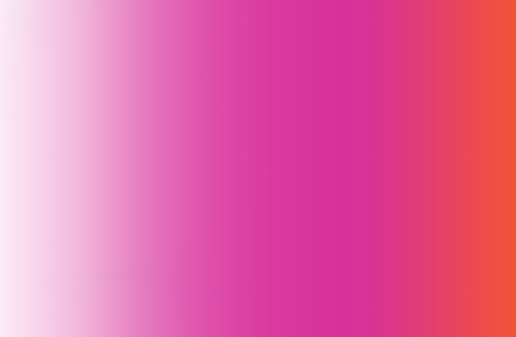
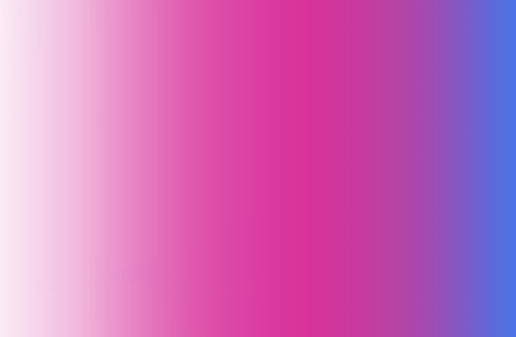
fix color

Changed region(s): [[0.7132, 0.0, 1.0, 1.0]]

diff --git a/css/style.css b/css/style.css
@@ -30,9 +30,10 @@ section {
   padding: 50px 0; }
   section .row {
     margin-top: 60px; }
-    @media (max-width: 768px) {
+    @media (max-width: 984px) {
       section .row {
-        margin-top: 30px; } }
+        margin-top: 30px;
+        margin: 30px 0 0 0; } }
 
 header.jumbotron {
   background-image: url(http://www.shuoyangdesign.com/blog/wp-content/uploads/2016/05/20141015153123463-450x300.jpg);
@@ -56,7 +57,7 @@ header.jumbotron {
   padding: 30px 100px;
   border: solid 2px #1d86ff;
   border-radius: 5px; }
-  @media (max-width: 768px) {
+  @media (max-width: 984px) {
     .background_mask {
       width: 100%;
       padding: 30px 0; } }
@@ -68,7 +69,7 @@ header.jumbotron {
   background-repeat: no-repeat;
   height: 300px;
   width: auto; }
-  @media (max-width: 768px) {
+  @media (max-width: 984px) {
     .logo {
       height: 145px; } }
 
@@ -81,7 +82,7 @@ header.jumbotron {
   text-align: right;
   font-size: 30px;
   font-weight: 900; }
-  @media (max-width: 768px) {
+  @media (max-width: 984px) {
     .time {
       border-right: 0;
       text-align: center;
@@ -90,18 +91,18 @@ header.jumbotron {
     margin-top: 10px;
     font-size: 15px; }
 
-.social {
+.social_outline .social {
   position: relative;
   width: 100%;
   height: auto;
   padding-left: 50px; }
-  @media (max-width: 768px) {
-    .social {
-      padding: 50px 0 0 20vw; } }
-  .social .item {
+  @media (max-width: 984px) {
+    .social_outline .social {
+      padding: 30px 0 0 20vw; } }
+  .social_outline .social .item {
     text-decoration: none;
     display: inline-block;
-    width: 80px;
+    width: 70px;
     height: 50px;
     margin-right: 40px;
     background-image: url("https://edithhsu.github.io/home/Images/plurk.svg");
@@ -110,22 +111,25 @@ header.jumbotron {
     -webkit-transition-duration: .2s;
     -o-transition-duration: .2s;
     transition-duration: .2s; }
-    @media (max-width: 768px) {
-      .social .item {
+    @media (max-width: 984px) {
+      .social_outline .social .item {
         margin-right: 0; } }
-    .social .item:hover {
+    .social_outline .social .item:hover {
       cursor: pointer;
       -webkit-filter: invert(0.2) sepia(0.8) saturate(5) hue-rotate(175deg);
       filter: invert(0.2) sepia(0.8) saturate(5) hue-rotate(175deg); }
-    .social .item .word {
+    .social_outline .social .item .word {
       color: #5d5d5d;
       margin-top: 60px;
       display: block;
-      font-size: 14px; }
-  .social .item_email {
+      font-size: 12px; }
+  .social_outline .social .item_email {
     background-image: url("https://edithhsu.github.io/home/Images/email.svg"); }
-  .social .item_new {
+  .social_outline .social .item_new {
     background-image: url("https://edithhsu.github.io/home/Images/new.svg"); }
+    @media (max-width: 1166px) {
+      .social_outline .social .item_new {
+        margin-top: 50px; } }
 
 .count_down_outline {
   width: 200px;
@@ -140,14 +144,14 @@ header.jumbotron {
   padding: 15px 20px;
   border-radius: 30px;
   margin: 20px 0 80px 0;
-  background: -webkit-gradient(linear, left top, right top, from(#ff6800), to(#d82f9a));
-  background: -webkit-linear-gradient(left, #ff6800 0%, #d82f9a 100%);
-  background: -o-linear-gradient(left, #ff6800 0%, #d82f9a 100%);
-  background: linear-gradient(to right, #ff6800 0%, #d82f9a 100%);
+  background: -webkit-gradient(linear, left top, right top, from(#1d86ff), to(#d82f9a));
+  background: -webkit-linear-gradient(left, #1d86ff 0%, #d82f9a 100%);
+  background: -o-linear-gradient(left, #1d86ff 0%, #d82f9a 100%);
+  background: linear-gradient(to right, #1d86ff 0%, #d82f9a 100%);
   font-size: 18px;
   overflow: hidden;
   text-align: center; }
-  @media (max-width: 768px) {
+  @media (max-width: 984px) {
     .count_down_outline {
       margin-bottom: 15px; } }
   .count_down_outline .count_down {

diff --git a/sass/style.sass b/sass/style.sass
@@ -32,8 +32,9 @@ section
   padding: 50px 0
   .row
     margin-top: 60px
-    @media (max-width: 768px)
+    @media (max-width: 984px)
       margin-top: 30px
+      margin: 30px 0 0 0
 
 // 01.header.jumbotron設定
 header.jumbotron
@@ -58,7 +59,7 @@ section#welcome
   padding: 30px 100px
   border: solid 2px $color_main
   border-radius: 5px
-  @media (max-width: 768px)
+  @media (max-width: 984px)
     width: 100%
     padding: 30px 0
 .logo
@@ -68,7 +69,7 @@ section#welcome
   background-repeat: no-repeat
   height: 300px
   width: auto
-  @media(max-width: $screen-sm)
+  @media(max-width: 984px)
     height: 145px
 .time
   display: inline-block
@@ -79,45 +80,48 @@ section#welcome
   text-align: right
   font-size: 30px
   font-weight: 900
-  @media (max-width: 768px)
+  @media (max-width: 984px)
     border-right: 0
     text-align: center
     padding-right: 0
   .address
     margin-top: 10px
     font-size: 15px
-.social
-  position: relative
-  width: 100%
-  height: auto
-  padding-left: 50px
-  @media (max-width: 768px)
-    padding: 50px 0 0 20vw
-  .item
-    text-decoration: none
-    display: inline-block
-    width: 80px
-    height: 50px
-    margin-right: 40px
-    background-image: url("https://edithhsu.github.io/home/Images/plurk.svg")
-    background-size: contain
-    background-repeat: no-repeat
-    transition-duration: .2s
-    @media (max-width: 768px)
-      margin-right: 0
-    &:hover
-      cursor: pointer
-      filter: invert(.2) sepia(.8) saturate(5) hue-rotate(175deg)
+.social_outline
+  .social
+    position: relative
+    width: 100%
+    height: auto
+    padding-left: 50px
+    @media (max-width: 984px)
+      padding: 30px 0 0 20vw
+    .item
+      text-decoration: none
+      display: inline-block
+      width: 70px
+      height: 50px
+      margin-right: 40px
+      background-image: url("https://edithhsu.github.io/home/Images/plurk.svg")
+      background-size: contain
+      background-repeat: no-repeat
+      transition-duration: .2s
+      @media (max-width: 984px)
+        margin-right: 0
+      &:hover
+        cursor: pointer
+        filter: invert(.2) sepia(.8) saturate(5) hue-rotate(175deg)
 
-    .word
-      color: #5d5d5d
-      margin-top: 60px
-      display: block
-      font-size: 14px
-  .item_email
-    background-image: url("https://edithhsu.github.io/home/Images/email.svg")
-  .item_new
-    background-image: url("https://edithhsu.github.io/home/Images/new.svg")
+      .word
+        color: #5d5d5d
+        margin-top: 60px
+        display: block
+        font-size: 12px
+    .item_email
+      background-image: url("https://edithhsu.github.io/home/Images/email.svg")
+    .item_new
+      background-image: url("https://edithhsu.github.io/home/Images/new.svg")
+      @media (max-width: 1166px)
+        margin-top: 50px
 
 .count_down_outline
   width: 200px
@@ -130,11 +134,11 @@ section#welcome
   padding: 15px 20px
   border-radius: 30px
   margin: 20px 0 80px 0
-  background: linear-gradient(to right, #ff6800 0%,#d82f9a 100%)
+  background: linear-gradient(to right, #1d86ff 0%,#d82f9a 100%)
   font-size: 18px
   overflow: hidden
   text-align: center
-  @media (max-width: 768px)
+  @media (max-width: 984px)
     margin-bottom: 15px
   .count_down
     width: 100%

diff --git a/index.html b/index.html
@@ -23,11 +23,13 @@
           </div>
         </div>
         <div class="col-md-7 col-sm-12">
-          <div class="social"><a class="item animated fadeInDown" href="https://www.plurk.com/ffxv_insomnia" target="_blank">
-              <div class="word">官方噗浪</div></a><a class="item item_email animated fadeInDown" href="mailto:ffxvinsomnia@gmail.com">
-              <div class="word">官方信箱</div></a>
-            <div class="item item_new animated fadeInDown">
-              <div class="word">活動資訊</div>
+          <div class="social_outline">
+            <div class="social"><a class="item animated fadeInDown" href="https://www.plurk.com/ffxv_insomnia" target="_blank">
+                <div class="word">官方噗浪</div></a><a class="item item_email animated fadeInDown" href="mailto:ffxvinsomnia@gmail.com">
+                <div class="word">官方信箱</div></a>
+              <div class="item item_new animated fadeInDown">
+                <div class="word">活動資訊</div>
+              </div>
             </div>
           </div>
         </div>
